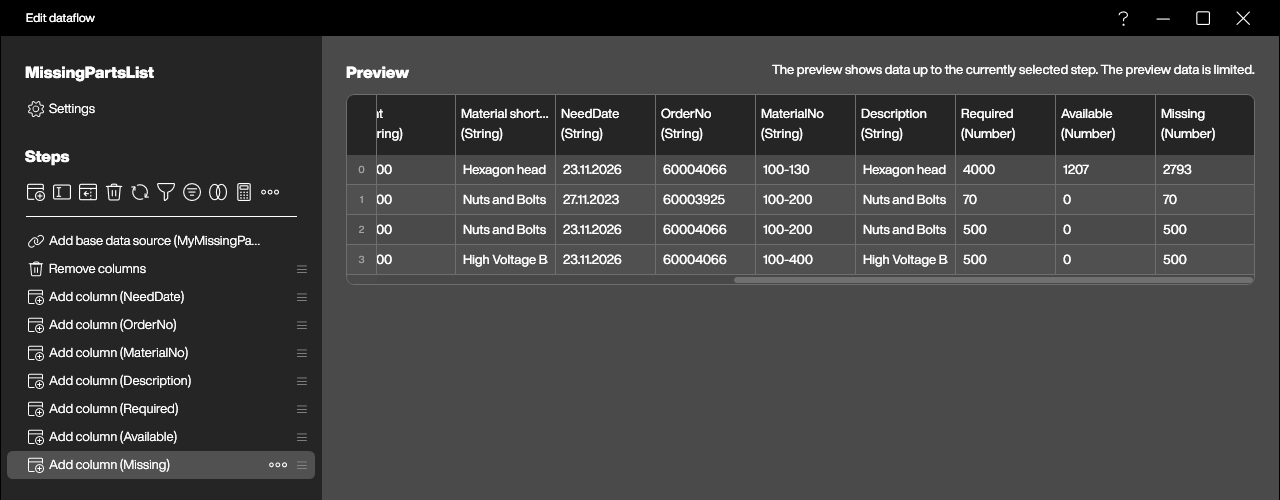
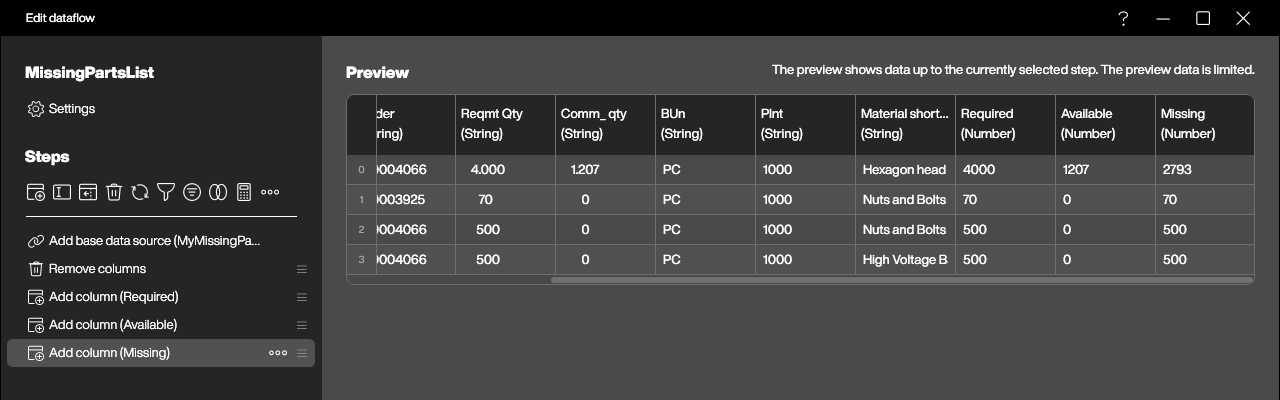
Missing parts article: leaner dataflow, KPI aggregation, comicbookguy host

diff --git a/_posts/2026-11-30-Missing-in-Action-Bringing-the-SAP-Missing-Parts-List-to-the-Shop-Floor-with-Xtract-Universal-iQ.md b/_posts/2026-11-30-Missing-in-Action-Bringing-the-SAP-Missing-Parts-List-to-the-Shop-Floor-with-Xtract-Universal-iQ.md
@@ -56,17 +56,17 @@ That's it. A click on **Run** executes the report in SAP and shows the output. E
 
 Two details in the output are worth keeping in mind for later. First, the values still carry the padding of the list, like `"   4.000 "`. Second, the quantities are formatted the way SAP prints them for a German user: the dot is the thousands separator, so `4.000` means four thousand, not four.
 
-After saving, the service can be called by any HTTP client:
+After saving, the service can be called by any HTTP client. Our XIQ server runs on a machine called `comicbookguy`:
 
 ```
-GET http://localhost:8080/api/v1/services/MissingParts/run
+GET http://comicbookguy:8080/api/v1/services/MissingParts/run
 ```
 
 By the way, the **Enable MCP Access** checkbox in the service details publishes the same service as a tool for AI agents. More about MCP in the Peakboard world can be found in our [MCP article](/Open-the-Pod-Bay-Doors-Peakboard-Hub-Learns-to-Speak-MCP.html).
 
 ## Building the Peakboard board
 
-The board is available for download at the top of this article. If the XIQ server doesn't run on the same machine, we replace `localhost` with the name of the server. Keep in mind that a Peakboard Box has to be able to reach XIQ over the network too.
+The board is available for download at the top of this article. To try it, we replace `comicbookguy` with the name of our own XIQ server. Keep in mind that a Peakboard Box has to be able to reach XIQ over the network too.
 
 ### The data source
 
@@ -75,25 +75,14 @@ On the Peakboard side, we don't need anything SAP-specific at all. The XIQ servi
 
 Peakboard takes over the property names from the JSON as column names. Characters that aren't allowed in a column name are replaced, so `Comm. qty` becomes `Comm_ qty`.
 
-### Cleaning the data in a dataflow
+### Converting the quantities in a dataflow
 
-The raw data is not quite ready for the screen yet: the values are padded with blanks, the quantities are strings in SAP's list format, and we have more columns than we need. A dataflow called `MissingPartsList` fixes all of that.
-![Dataflow in the Peakboard Designer that cleans and converts the XIQ data](/assets/2026-11-30/peakboard-dataflow.png)
+Most of the raw data can go to the screen as it is. The values still carry some trailing blanks, but blanks at the end of a text are invisible in a table, so there's no need to trim them. The quantities are a different story: they are strings in SAP's list format, and we want real numbers to calculate with. A dataflow called `MissingPartsList` takes care of that with just four steps.
+![Dataflow in the Peakboard Designer that converts the XIQ quantities](/assets/2026-11-30/peakboard-dataflow.png)
 
 The first step removes the columns we don't need, such as the storage location, the MRP controller and the reservation number. This step is more important than it looks. The report has a column called `Item`, and `item` is also the name of the variable that represents the current row in a dataflow script. Having both leads to a conflict, so we drop the column before any script runs.
 
-Then we add one column for each value we want to show. The text columns just trim the blanks:
-
-```lua
-local s = item['Material short text'] or ''
-s = s:gsub('^%s+', '')
-s = s:gsub('%s+$', '')
-return s
-```
-
-Note the bracket syntax `item['...']`. It's needed whenever a column name contains blanks or special characters.
-
-The quantity columns have the data type *Number* and need a bit more work. We remove the blanks and the thousands separator, then turn the decimal comma into a decimal point, and convert the result into a number:
+Then we add two columns of the data type *Number* for the quantities. We remove the blanks and the thousands separator, then turn the decimal comma into a decimal point, and convert the result into a number:
 
 ```lua
 -- SAP list output: '4.000' means four thousand, decimals use a comma
@@ -103,7 +92,7 @@ s = s:gsub(',', '.')
 return tonumber(s) or 0
 ```
 
-The `Available` column works the same way with `Comm_ qty`. Finally, the `Missing` column is simply the difference of the two:
+Note the bracket syntax `item['...']`. It's needed whenever a column name contains blanks or special characters. The `Available` column works the same way with `Comm_ qty`. Finally, the `Missing` column is simply the difference of the two:
 
 ```lua
 return item.Required - item.Available
@@ -113,33 +102,26 @@ If the SAP user has a different decimal notation, the conversion has to be adjus
 
 ### Feeding the KPI tiles
 
-The left side of the board shows two key figures: the number of open shortages and the number of production orders affected. Both are calculated in the `Refreshed` event of the dataflow, so they are always in sync with the table:
+The left side of the board shows two key figures: the number of open shortages and the number of production orders affected. Instead of looping through the rows in a script, we let a second dataflow do the math. `ShortageKPIs` uses `MissingPartsList` as its source and reloads whenever its source is refreshed, so the tiles are always in sync with the table.
+
+The core of it is a single **Aggregate** step with two functions: **Count** gives us the number of rows as `ShortageCount`, and **Distinct count** on the `Order` column gives us the number of different orders as `OrderCount`. One more *Add column* step adds the time of the last update:
 
 ```lua
-local orders = {}
-local orderCount = 0
-for i = 0, data.MissingPartsList.count - 1 do
-   local order = data.MissingPartsList[i].OrderNo
-   if not orders[order] then
-      orders[order] = true
-      orderCount = orderCount + 1
-   end
-end
-
-data.ShortageCount = tostring(data.MissingPartsList.count)
-data.OrderCount = tostring(orderCount)
-data.LastRefresh = os.date('%H:%M')
+return date.tostring(data.DateTime.getluadate(), 'HH:mm')
 ```
 
-The script walks through all rows, collects the distinct order numbers in a Lua table, and writes the results into three variables that are bound to the text boxes on the screen.
+We use Peakboard's date functions here instead of Lua's `os.date()`, because they work with the local time of the device.
+![KPI dataflow with an Aggregate step counting the shortages and distinct orders](/assets/2026-11-30/peakboard-kpi-dataflow.png)
+
+The result is a list with exactly one row. The text boxes on the screen are bound directly to its values, for example `{ShortageKPIs[0].ShortageCount}` for the number of open shortages. No variables and no scripts needed.
 
 ### The result
 
-The right side of the board is a styled table bound to the dataflow, showing the need date, the order, the material, the description and the three quantities. Here's the final board with the four shortages from our sample system:
+The right side of the board is a styled table bound to the `MissingPartsList` dataflow, showing the need date, the order, the material, the description and the three quantities. Here's the final board with the four shortages from our sample system:
 ![The finished Peakboard board showing the SAP missing parts list](/assets/2026-11-30/peakboard-missingparts-result.png)
 
 ## Wrapping up
 
-The missing parts list is one of those SAP reports that holds exactly the right information but lives in the wrong place: on the planner's screen instead of next to the assembly line. With the Report service of Xtract Universal.iQ, we turned the report into a JSON endpoint without writing a single line of ABAP, and Peakboard only had to do what it does best: fetch, clean and visualize.
+The missing parts list is one of those SAP reports that holds exactly the right information but lives in the wrong place: on the planner's screen instead of next to the assembly line. With the Report service of Xtract Universal.iQ, we turned the report into a JSON endpoint without writing a single line of ABAP, and Peakboard only had to do what it does best: fetch, calculate and visualize.
 
 The same pattern works for many other classic list reports that have no BAPI counterpart. And if the company already uses XIQ for its data platform, the board simply becomes one more consumer of a service that already exists.
